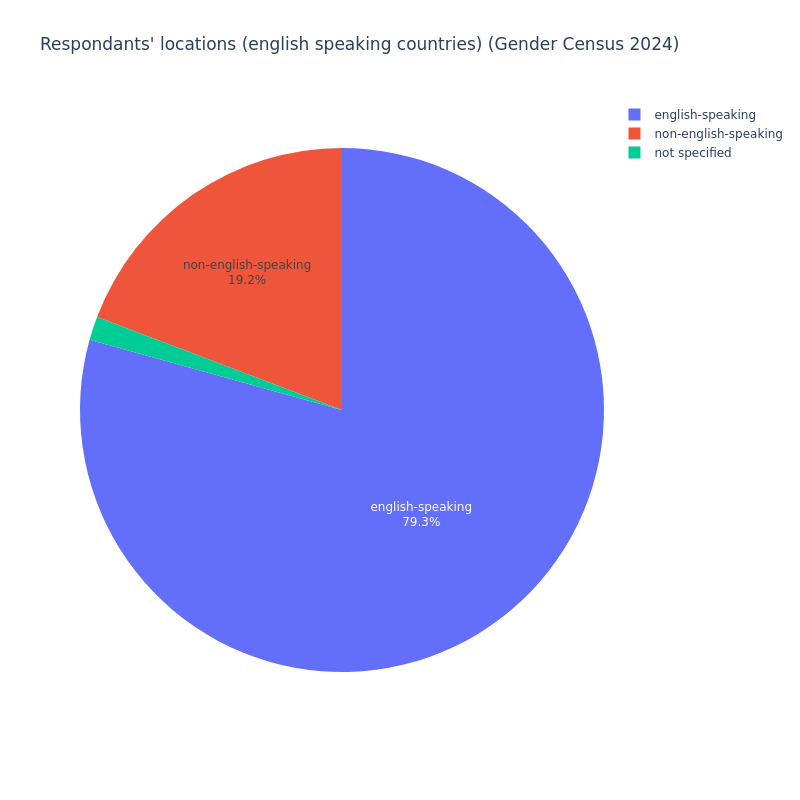
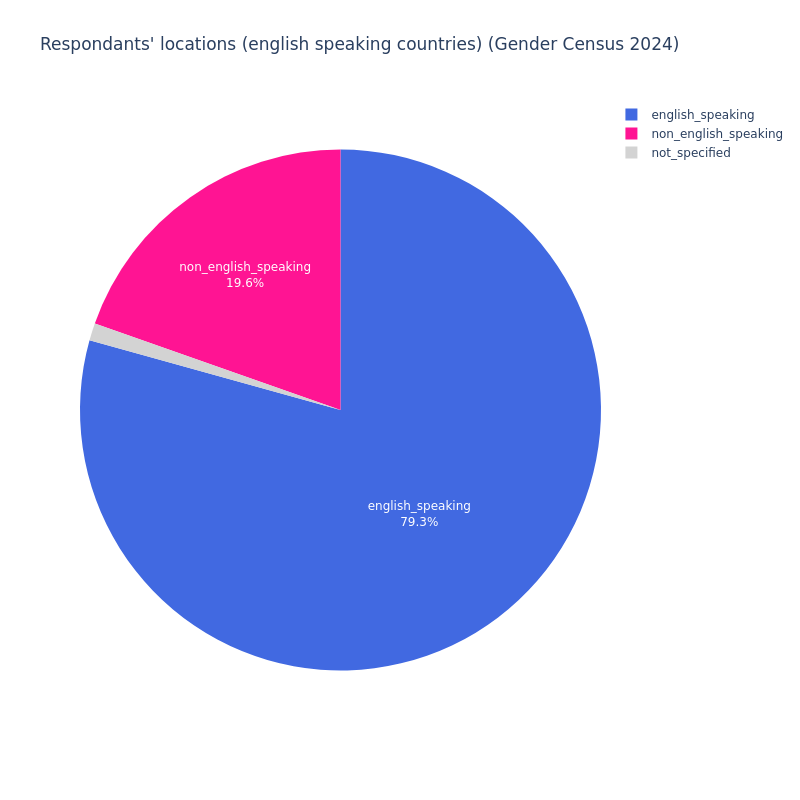
refactor english speaking vs no code & assign colours to pie charts

diff --git a/visualisation/make_geo_charts.py b/visualisation/make_geo_charts.py
@@ -1,61 +1,76 @@
 import pandas as pd
 import plotly.graph_objects as go
+import plotly.express as px
 from re import sub
 
-def adjust_geo_data(country_srs:pd.Series, data_case:str, total_len:int):
+def english_speaking_or_no(input_df:pd.DataFrame):
+    """
+    takes the location df as read from the q35 file
+
+    returns a new column with a new column that specifies whether the country is 
+    english speaking, non-english speaking, or was not specified
+    """
+
+    english_speaking_countries = [  
+        "United States",
+        "United Kingdom",
+        "Australia",
+        "New Zealand",
+        "Canada",
+        "Ireland",
+        # and a buncha islands not in our list
+    ]
+    not_specified = [
+        'Prefer not to say', 
+        "['country aggregated']", 
+        "None"
+    ]
+
+    new_df = input_df.copy().set_index("UserID")
+
+    new_df["english_or_no"] = "english_speaking" # default
+    new_df["english_or_no"] = new_df["english_or_no"].mask(
+        (
+            new_df["q35_Location"] != "United States") & (
+            new_df["q35_Location"] != "United Kingdom") & (
+            new_df["q35_Location"] != "Australia") & (
+            new_df["q35_Location"] != "New Zealand") & (
+            new_df["q35_Location"] != "Canada") & (
+            new_df["q35_Location"] != "Ireland") & (
+            new_df["q35_Location"] != 'Prefer not to say') & (
+            new_df["q35_Location"] != "['country aggregated']") & (
+            new_df["q35_Location"] != "None"
+        ), 
+        other="non_english_speaking"
+    )
+    new_df["english_or_no"] = new_df["english_or_no"].mask(
+        (
+            new_df["q35_Location"] == 'Prefer not to say') | (
+            new_df["q35_Location"] == "['country aggregated']") | (
+            new_df["q35_Location"] == "None"
+        ), 
+        other="not_specified"
+    )
+
+    return new_df
+
+def add_other_countries(country_srs:pd.Series, total_len:int, percent_cutoff:float=0.5):
     """
     util to adjust geo data dict based on data case
 
-    if data_case="english_speaking_countries":
-    - it groups the values by whether or not the country is majority english speaking
-
-    if data_case="total":
-    - it groups any countries that make up less than 0.5% of the dataset together
+    it groups any countries that make up less than 0.5% of the dataset together
     """ # TODO figure out how this will work with label df instead of a series??
     
-    # grouping by english speaking vs not english speaking countries
-    if data_case == "english_speaking_countries":
-        # wikipedia says these countries have 50%+ english as their native language
-        english_speaking_countries = [  
-            "United States",
-            "United Kingdom",
-            "Australia",
-            "New Zealand",
-            "Canada",
-            "Ireland",
-            # and a buncha islands not in our list
-        ]
-
-        # summing
-        english_speakers = 0
-        non_english_speakers = 0
-        not_specified = 0
-        for country in country_srs.index:
-            if country in english_speaking_countries:
-                english_speakers += country_srs[country]
-            elif country in ['Prefer not to say', "['country aggregated']", "None"]:
-                not_specified += country_srs[country]
-            else:
-                non_english_speakers += country_srs[country]
-        
-        # making new srs
-        new_country_srs = pd.Series(
-            index=["english-speaking", "non-english-speaking", "not specified"],
-            data=[english_speakers, non_english_speakers, not_specified]
-        )
-
     # grouping together smallest represented countries to remove clutter
-    elif data_case == "total":
-        small_countries = 0
-        new_country_srs = pd.Series()
-        percent_cutoff = 0.5
-        for country in country_srs.index:
-            country_percent = country_srs[country]/total_len * 100
-            if country_percent < percent_cutoff:
-                small_countries += country_srs[country]
-            else:
-                new_country_srs[country] = country_srs[country]
-        new_country_srs[f"other countries (<{percent_cutoff}%)"] = small_countries
+    small_countries = 0
+    new_country_srs = pd.Series()
+    for country in country_srs.index:
+        country_percent = country_srs[country]/total_len * 100
+        if country_percent < percent_cutoff:
+            small_countries += country_srs[country]
+        else:
+            new_country_srs[country] = country_srs[country]
+    new_country_srs[f"other countries (<{percent_cutoff}%)"] = small_countries
 
     return new_country_srs
 
@@ -66,7 +81,12 @@ def make_geo_charts(input_df:pd.DataFrame, data_case:str):
     makes pie chart about the countries most represented among respondants
     """
 
-    new_srs = input_df.copy().set_index("UserID")["q35_Location"]
+    if data_case == "total":
+        new_df = input_df.copy().set_index("UserID")
+        new_srs = new_df["q35_Location"] # countries column
+    elif data_case == "english_speaking_countries":
+        new_df = english_speaking_or_no(input_df)
+        new_srs = new_df["english_or_no"] # english or no column
 
     folder = "visualisation/charts/countries_"
     suffix = "(Gender Census 2024)"
@@ -82,17 +102,59 @@ def make_geo_charts(input_df:pd.DataFrame, data_case:str):
     # & count
     country_srs = new_srs.groupby(by=new_srs.values).count().sort_values(ascending=False)
 
-    country_srs = adjust_geo_data(country_srs, data_case, len(input_df))
+    if data_case == "total": # adding "other countries" for any countries under 0.5%
+        country_srs = add_other_countries(country_srs, len(input_df))
 
     # make a pie chart
     labels = country_srs.index
     values = country_srs.values
+    if data_case == "total":
+        colour_dict = { # assigning continent specific colours to shown countries
+            "Canada":"orangered",
+            "United States":"crimson", # red for danger lmao 
+            "Brazil":"tomato",
 
+            "United Kingdom":"royalblue", 
+            "France":"darkblue", 
+            "Norway":"indigo", 
+            "Sweden":"mediumslateblue", 
+            "Poland":"cornflowerblue", 
+            "Germany":"powderblue",
+            "Finland":"teal",
+            "Russia":"aquamarine",
+            "Austria":"skyblue",
+            "Spain":"blue",
+            "Italy":"cadetblue",
+            "Ireland":"steelblue",
+            "Netherlands":"lightsteelblue",
+
+            "China":"mediumseagreen",
+            "Japan":"olivedrab", 
+            "South Korea":"yellowgreen", 
+            "Thailand":"green", 
+
+            "Australia":"gold", 
+            "New Zealand":"darkgoldenrod",
+
+            "other countries (<0.5%)":"darkgrey",
+            "Prefer not to say":"grey",
+        }
+        filler_colours = px.colors.qualitative.Pastel + px.colors.qualitative.Pastel + px.colors.qualitative.Pastel
+        colours = []
+        for i in range(len(labels)):
+            if labels[i] not in colour_dict.keys():
+                colours.append(filler_colours[i])
+            else:
+                colours.append(colour_dict[labels[i]])
+    elif data_case == "english_speaking_countries":
+        colours = ["royalblue", "deeppink", "lightgrey"]
+    
     fig = go.Figure(data=[
         go.Pie(
             labels=labels, values=values, 
             textposition="inside",
-            textinfo="label+percent"
+            textinfo="label+percent",
+            marker_colors=colours
         )
     ])
 
